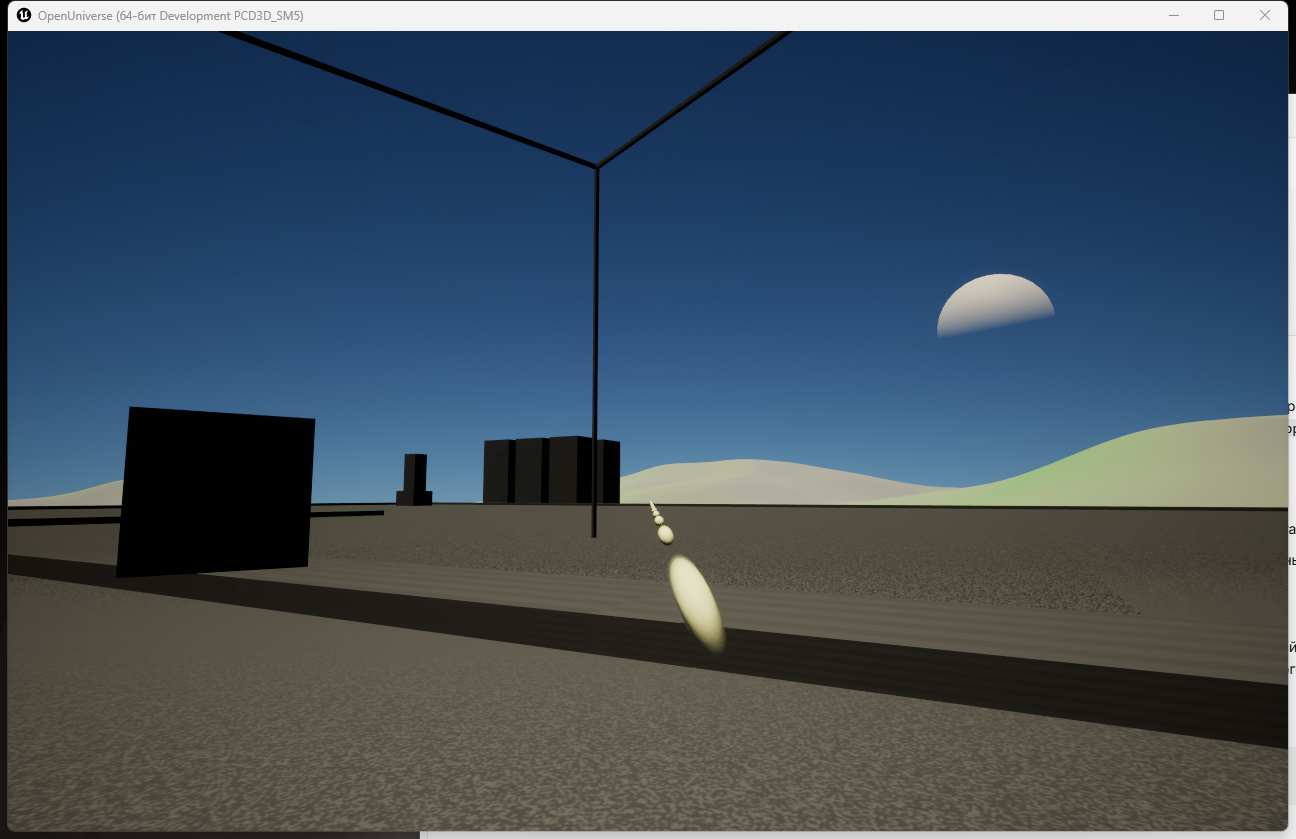
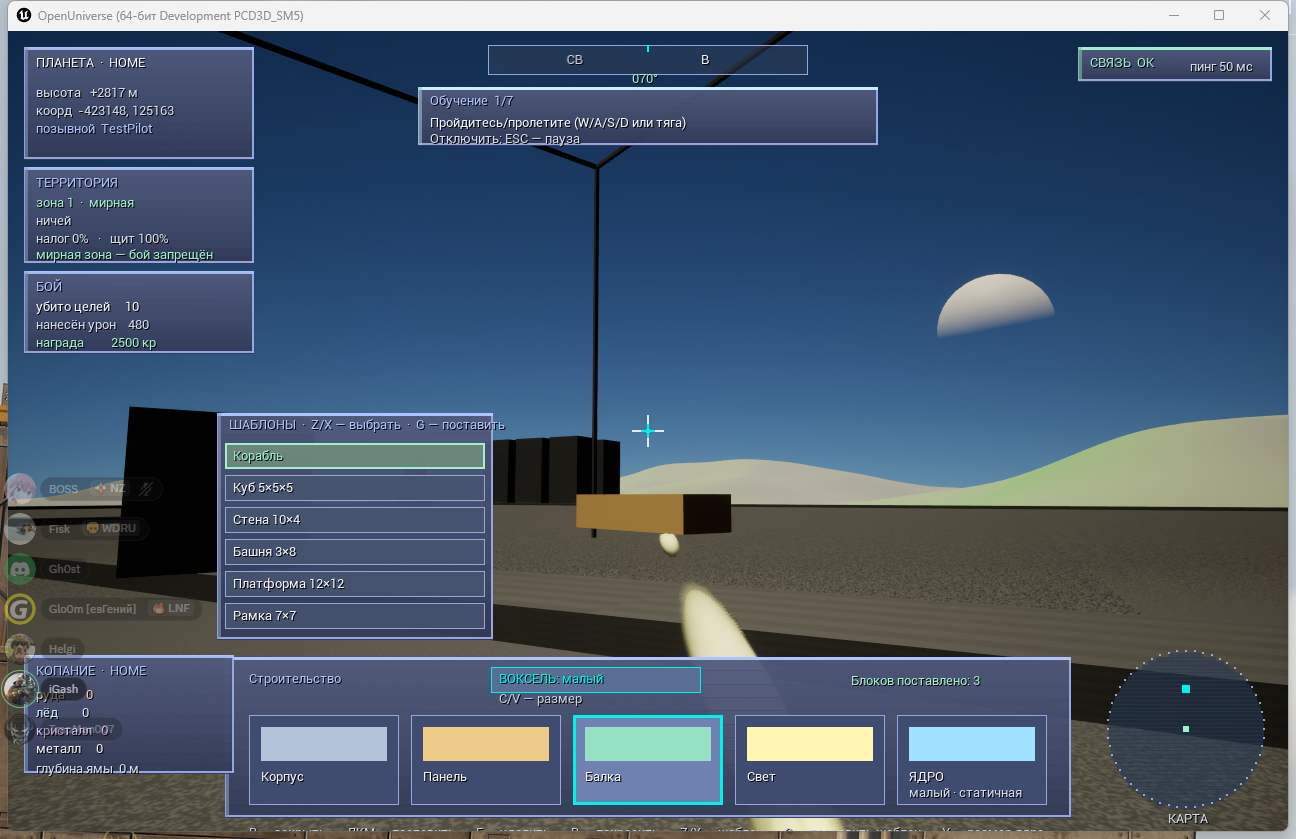
feat(sim): asteroid belt in the home system - deterministic ring of rocks in the sky (generator), drawn on the client; belt capture scenario

diff --git a/data.js b/data.js
@@ -136,7 +136,7 @@ window.PLAN = {
         { "title": "Сверхсвет (удержание Shift): сверхскоростной перелёт между телами", "title_en": "Supercruise (hold Shift): high-speed travel between bodies", "status": "done" },
         { "title": "Гравитация и посадка на соседних телах (луна/планета — с рельефом, гигант/звезда — сфера)", "title_en": "Gravity and landing on neighbouring bodies (moon/planet with terrain, giant/star as spheres)", "status": "done" },
         { "title": "Рельеф на соседних телах (процедурный меш по общей с сервером формуле)", "title_en": "Terrain on neighbouring bodies (procedural mesh from the shared height formula)", "status": "done" },
-        { "title": "Генерация звёздных систем и поясов (генератор есть; обитаемая планета одна)", "title_en": "Star system and belt generation (generator exists; one habitable planet)", "status": "in_progress" },
+        { "title": "Генерация звёздных систем и поясов астероидов (генератор по семени + пояс в домашней системе: кольцо камней в небе, ресурсы)", "title_en": "Star system and asteroid belt generation (deterministic generator + a belt in the home system: a ring of rocks in the sky, resources)", "status": "done" },
         { "title": "Перемещения между системами (межзвёздные)", "title_en": "Travel between systems (interstellar)", "status": "todo" },
         { "title": "Орбитальные станции и шлюзы", "title_en": "Orbital stations and gateways", "status": "todo" },
         { "title": "Опасные зоны: чёрные дыры, радиация", "title_en": "Hazard zones: black holes, radiation", "status": "todo" }

diff --git a/client/Source/OpenUniverse/OUSolarBody.cpp b/client/Source/OpenUniverse/OUSolarBody.cpp
@@ -216,9 +216,15 @@ void AOUSolarBody::BuildBody()
 	}
 
 	// Есть рельеф — строим процедурную поверхность и прячем сферу.
-	if (Amplitude > 0.0 && Kind != EOUSolarKind::Star)
+	if (Amplitude > 0.0 && Kind != EOUSolarKind::Star && Kind != EOUSolarKind::Belt)
 	{
 		BuildTerrain();
+	}
+	else if (Kind == EOUSolarKind::Belt)
+	{
+		// Пояс астероидов — кольцо мелких камней.
+		Mesh->SetVisibility(false);
+		BuildBelt();
 	}
 	else
 	{
@@ -231,5 +237,84 @@ void AOUSolarBody::BuildBody()
 	}
 
 	UE_LOG(LogOUSolar, Log, TEXT("Небесное тело: %s, радиус %.0f см, амплитуда %.0f"),
-		Kind == EOUSolarKind::Star ? TEXT("звезда") : TEXT("планета"), BodyRadiusCm, Amplitude);
+		Kind == EOUSolarKind::Star ? TEXT("звезда")
+			: (Kind == EOUSolarKind::Belt ? TEXT("пояс астероидов") : TEXT("планета")),
+		BodyRadiusCm, Amplitude);
+}
+
+void AOUSolarBody::BuildBelt()
+{
+	// Кольцо камней в плоскости орбиты (горизонт XZ серверных осей → UE).
+	// Рисуем процедурным мешем: несколько «кубиков» случайного размера по кругу.
+	if (!TerrainMesh)
+	{
+		return;
+	}
+	TerrainMesh->ClearAllMeshSections();
+	TerrainMesh->SetVisibility(true);
+	if (TerrainMesh->GetMaterial(0) == nullptr && TerrainMaterial)
+	{
+		TerrainMesh->SetMaterial(0, TerrainMaterial);
+	}
+
+	// Радиус кольца: BeltOrbitUnits (серверные единицы) → см UE.
+	const double RingR = (BeltOrbitUnits > 0.0 ? BeltOrbitUnits : 4000000.0) * OUInterop::ServerUnitToCm;
+	const double Band = FMath::Max(2.0, static_cast<double>(BodyRadiusCm));   // разброс по радиусу
+
+	TArray<FVector> Verts;
+	TArray<int32> Tris;
+	TArray<FVector> Normals;
+	TArray<FVector2D> UVs;
+	TArray<FLinearColor> Colors;
+
+	// Детерминированный псевдослучайный генератор (без внешних зависимостей).
+	uint64 Seed = 0x9E3779B9u;
+	auto NextF = [&Seed]() -> double {
+		Seed = Seed * 6364136223846793005ull + 1442695040888963407ull;
+		return static_cast<double>((Seed >> 11) & 0xFFFFFFFFull) / 4294967296.0;
+	};
+
+	auto AddBox = [&](const FVector& C, double Half) {
+		const int32 Base = Verts.Num();
+		const double H = Half;
+		const FLinearColor Col(0.55f + 0.15f * static_cast<float>(NextF()),
+			0.5f + 0.15f * static_cast<float>(NextF()), 0.45f + 0.15f * static_cast<float>(NextF()));
+		// 8 вершин куба.
+		for (int sx = -1; sx <= 1; sx += 2)
+			for (int sy = -1; sy <= 1; sy += 2)
+				for (int sz = -1; sz <= 1; sz += 2)
+				{
+					Verts.Add(C + FVector(sx * H, sy * H, sz * H));
+					Normals.Add(FVector(sx, sy, sz).GetSafeNormal());
+					UVs.Add(FVector2D(0, 0));
+					Colors.Add(Col);
+				}
+		// 12 треугольников (6 граней) по индексам вершин.
+		const int32 T[12][3] = {
+			{0,1,3},{0,3,2},{4,6,7},{4,7,5},{0,4,5},{0,5,1},
+			{2,3,7},{2,7,6},{0,2,6},{0,6,4},{1,5,7},{1,7,3}
+		};
+		for (auto& t : T)
+		{
+			Tris.Add(Base + t[0]); Tris.Add(Base + t[1]); Tris.Add(Base + t[2]);
+		}
+	};
+
+	const int32 Count = FMath::Clamp(BeltRockCount, 8, 2000);
+	for (int32 i = 0; i < Count; ++i)
+	{
+		const double a = 6.283185307179586 * (static_cast<double>(i) / static_cast<double>(Count))
+			+ NextF() * 0.05;
+		const double r = RingR + (NextF() - 0.5) * Band;
+		// Плоскость орбит тел — горизонтальная (UE XY); Z — толщина пояса.
+		const double z = (NextF() - 0.5) * Band * 0.5;
+		const FVector C(r * FMath::Cos(a), r * FMath::Sin(a), z);
+		const double Half = 4000.0 + NextF() * 16000.0;  // 40–200 м камни
+		AddBox(C, Half);
+	}
+
+	TerrainMesh->CreateMeshSection_LinearColor(0, Verts, Tris, Normals, UVs, Colors,
+		TArray<FProcMeshTangent>(), false);
+	UE_LOG(LogOUSolar, Log, TEXT("Пояс астероидов: камней %d, радиус кольца %.0f см, вершин %d"),
+		Count, RingR, Verts.Num());
 }

diff --git a/client/Source/OpenUniverse/OUShipPawn.cpp b/client/Source/OpenUniverse/OUShipPawn.cpp
@@ -155,6 +155,17 @@ void AOUShipPawn::BeginPlay()
 		// Тангаж вниз (в серверных осях Y — вверх, отрицательный — к поверхности).
 		State.Pitch = -0.9f;
 	}
+	else if (FParse::Param(FCommandLine::Get(), TEXT("OUBeltOrbit")))
+	{
+		// Диагностика: корабль у пояса астероидов (кольцо вокруг центра системы,
+		// радиус 700 000 серверных единиц — за луной). Чуть выше плоскости пояса,
+		// смотрим вниз на кольцо.
+		const FVector BeltRUE = OUInterop::ServerToUE(FVector(700000.f, 0.f, 0.f));
+		const FVector SpawnUE = BeltRUE + FVector(0.f, 0.f, 8000.f);
+		State.Position = OUInterop::UEToServer(SpawnUE);
+		SetActorLocation(SpawnUE);
+		State.Pitch = -0.55f;
+	}
 	else if (FParse::Param(FCommandLine::Get(), TEXT("OUCombatDemo")))
 	{
 		// Диагностика: корабль рядом с боевыми целями (для снимка HUD боя).
@@ -1052,9 +1063,10 @@ void AOUShipPawn::Tick(float DeltaSeconds)
 			}
 			// Какая территория под кораблём (для HUD и клавиши захвата T).
 			Net->UpdateTerritoryAt(State.Position.X, State.Position.Y, State.Position.Z);
-			// Диагностика `-OUMoonOrbit`/`-OUCombatDemo`: не реконсилимся —
-			// держим корабль на месте для снимка.
+			// Диагностика `-OUMoonOrbit`/`-OUBeltOrbit`/`-OUCombatDemo`: не
+			// реконсилимся — держим корабль на месте для снимка.
 			if (!FParse::Param(FCommandLine::Get(), TEXT("OUMoonOrbit")) &&
+				!FParse::Param(FCommandLine::Get(), TEXT("OUBeltOrbit")) &&
 				!FParse::Param(FCommandLine::Get(), TEXT("OUCombatDemo")))
 			{
 				// Реконсиляция: принимаем авторитетное состояние своей сущности

diff --git a/server/crates/sim/src/lib.rs b/server/crates/sim/src/lib.rs
@@ -373,6 +373,19 @@ pub fn home_system() -> StarSystem {
         phase: 0.0,
         resources: 0,
     });
+    // Пояс астероидов — достижим сверхсветом, богат ресурсами. Не тело для
+    // посадки: в физике пропускается (нет рельефа), на клиенте рисуется
+    // кольцом камней. Ставим ЗА луной (560 км) — на 700 км от центра: он вне
+    // домашней планеты (радиус 500 км) и виден с её поверхности.
+    bodies.push(Body {
+        id: 4,
+        kind: BodyKind::AsteroidBelt,
+        pos: Vec3::new(700_000.0, 0.0, 0.0),        // 700 км от центра
+        radius: 30_000.0,                           // 30 км разброс по радиусу
+        orbit: 0.0,
+        phase: 0.0,
+        resources: 5_000,
+    });
     StarSystem {
         id: 0,
         name: system_name(0, HOME_PLANET_SEED),
@@ -512,6 +525,11 @@ impl World {
         self.bodies.push(home_planet());
         for b in home_system().bodies {
             if b.id == home_body_id() {
+                continue;
+            }
+            // Пояс астероидов — не твёрдое тело: на него не садятся, гравитации и
+            // столкновений у него нет (только визуал на клиенте).
+            if matches!(b.kind, BodyKind::AsteroidBelt | BodyKind::BlackHole) {
                 continue;
             }
             if b.radius <= 0.0 {

diff --git a/client/Source/OpenUniverse/OUGameMode.cpp b/client/Source/OpenUniverse/OUGameMode.cpp
@@ -360,15 +360,23 @@ void AOUGameMode::BuildSystemBodies()
 			continue;   // домашняя планета уже построена как воксельный мир
 		}
 		// Позиция серверная (1 ед = 1 м) → см UE (×100), оси сервер→UE.
-		const FVector PosUE = OUInterop::ServerToUE(B.Center);
+		const bool bBelt = (B.Kind == 4);
+		// Пояс — кольцо вокруг центра системы: актёр в начале координат, а радиус
+		// кольца — расстояние от центра до пояса (в серверных единицах).
+		const FVector PosUE = bBelt ? FVector::ZeroVector : OUInterop::ServerToUE(B.Center);
 		AOUSolarBody* Body = World->SpawnActor<AOUSolarBody>(
 			AOUSolarBody::StaticClass(), FTransform(FRotator::ZeroRotator, PosUE));
 		if (!Body)
 		{
 			continue;
 		}
-		Body->Kind = (B.Kind == 0) ? EOUSolarKind::Star : EOUSolarKind::Planet;
+		Body->Kind = (B.Kind == 0) ? EOUSolarKind::Star
+			: (bBelt ? EOUSolarKind::Belt : EOUSolarKind::Planet);
 		Body->BodyRadiusCm = B.Radius * OUInterop::ServerUnitToCm;   // радиус в см
+		// Поясу нужен радиус кольца (в серверных единицах) — из позиции пояса.
+		Body->BeltOrbitUnits = bBelt
+			? static_cast<double>(B.Center.Size())
+			: 0.0;
 		// Рельеф: амплитуда/сид с сервера (общая формула высоты). У звёзд — гладко.
 		Body->Amplitude = B.Amplitude;
 		Body->TerrainSeed = B.Seed;

diff --git a/client/Source/OpenUniverse/OUSolarBody.h b/client/Source/OpenUniverse/OUSolarBody.h
@@ -16,7 +16,8 @@ UENUM(BlueprintType)
 enum class EOUSolarKind : uint8
 {
 	Star UMETA(DisplayName = "Звезда"),
-	Planet UMETA(DisplayName = "Планета")
+	Planet UMETA(DisplayName = "Планета"),
+	Belt UMETA(DisplayName = "Пояс астероидов")
 };
 
 /**
@@ -58,6 +59,14 @@ public:
 	UFUNCTION(BlueprintCallable, CallInEditor, Category = "Open Universe|System")
 	void BuildBody();
 
+	/** Радиус орбиты пояса (серверные единицы) и число камней. */
+	UPROPERTY(EditAnywhere, BlueprintReadWrite, Category = "Open Universe|System")
+	double BeltOrbitUnits = 0.0;
+
+	/** Сколько камней рисовать в поясе (визуал). */
+	UPROPERTY(EditAnywhere, BlueprintReadWrite, Category = "Open Universe|System")
+	int32 BeltRockCount = 900;
+
 protected:
 	virtual void OnConstruction(const FTransform& Transform) override;
 
@@ -71,6 +80,9 @@ protected:
 private:
 	/** Построить процедурную поверхность тела по рельефу. */
 	void BuildTerrain();
+
+	/** Построить пояс астероидов (кольцо камней). */
+	void BuildBelt();
 
 	UPROPERTY(Transient)
 	TObjectPtr<UStaticMesh> SphereMesh = nullptr;

diff --git a/docs/testing-on-another-pc.md b/docs/testing-on-another-pc.md
@@ -7,6 +7,97 @@
 
 ---
 
+## Пошагово с нуля (чек-лист)
+
+### Шаг 1. Установить Git
+```powershell
+winget install --id Git.Git -e
+```
+Проверка (в **новом** окне терминала):
+```powershell
+git --version
+```
+Если `winget` незнаком — скачайте Git с https://git-scm.com/download/win.
+
+### Шаг 2. Установить Rust
+```powershell
+winget install --id Rustlang.Rustup -e
+```
+Проверка (в новом окне):
+```powershell
+cargo --version
+rustc --version
+```
+Без Rust тесты ядра не запустятся.
+
+### Шаг 3. Установить Visual Studio 2022 с C++
+Нужен для C++-тестов провода и рельефа (компилятор `cl.exe`).
+```powershell
+winget install --id Microsoft.VisualStudio.2022.Community -e
+```
+После установки откройте **Visual Studio Installer → Изменить (Modify)** и
+включите рабочую нагрузку **«Разработка классических приложений на C++»**
+(*Desktop development with C++*), затем нажмите «Изменить».
+
+Проверка:
+```powershell
+& "${env:ProgramFiles(x86)}\Microsoft Visual Studio\Installer\vswhere.exe" -latest -requires Microsoft.VisualStudio.Component.VC.Tools.x86.x64 -property installationPath
+```
+Должен вывестись путь; пусто — компонент C++ не отмечен.
+
+> Без VS с C++ шаги `test-client` и `test-terrain` будут **пропущены**.
+
+### Шаг 4. Получить код проекта
+```powershell
+cd C:\            # или любой рабочий диск
+git clone https://github.com/andreyshpak2016-lgtm/open-universe.git
+cd open-universe
+```
+
+### Шаг 5. Прогнать быстрые тесты (без Unreal Engine)
+```powershell
+powershell -ExecutionPolicy Bypass -File tools/test-all.ps1 -SkipUE
+```
+Ожидаемый итог: `cargo test`, `test-client`, `test-terrain` — **OK**;
+`test-ue` и `test-shipping` — пропущены (движка нет).
+
+### Шаг 6. (Только для UE-тестов) Установить Unreal Engine 5.5
+- Установите **Epic Games Launcher**, добавьте **Unreal Engine 5.5**.
+- Путь обычно `C:\Program Files\Epic Games\UE_5.5`.
+- Установите **.NET Framework SDK** (нужен UnrealBuildTool):
+```powershell
+winget install --id Microsoft.DotNet.Framework.DeveloperPack_4 -e
+```
+
+### Шаг 7. Собрать UE-модуль клиента
+```powershell
+powershell -ExecutionPolicy Bypass -File tools/build-client.ps1 -Build
+```
+Если движок не в `D:\UE_5.5`, укажите путь:
+```powershell
+powershell -File tools/build-client.ps1 -Build -EngineRoot "C:\Program Files\Epic Games\UE_5.5"
+```
+
+### Шаг 8. Прогнать UE-тесты
+```powershell
+powershell -ExecutionPolicy Bypass -File tools/test-ue.ps1
+```
+Если движок нестандартный — добавьте `-EngineRoot`.
+
+### Шаг 9. Полный прогон всего
+```powershell
+powershell -ExecutionPolicy Bypass -File tools/test-all.ps1
+```
+Сводка покажет все проверки сразу.
+
+### Шаг 10. (Необязательно) Упаковать игру и проверить Shipping
+```powershell
+powershell -File tools/package-game.ps1     # сборка standalone (долго)
+powershell -File tools/test-shipping.ps1    # запуск упакованной сборки
+```
+
+---
+
 ## 0. Быстрый путь (если всё уже стоит)
 
 ```powershell

diff --git a/plan.md b/plan.md
@@ -149,7 +149,7 @@
 - [x] Сверхсвет (удержание Shift): сверхскоростной перелёт между телами системы
 - [x] Гравитация и посадка на соседних телах (луна, планета — с рельефом; гигант/звезда — сфера)
 - [x] Рельеф на соседних телах (процедурный меш по общей с сервером формуле высоты)
-- [~] Генерация звёздных систем и поясов астероидов — **генератор есть; обитаемая планета одна**
+- [x] Генерация звёздных систем и поясов астероидов (генератор по семени + пояс в домашней системе: кольцо камней в небе, ресурсы)
 - [ ] Перемещения между системами (межзвёздные)
 - [ ] Орбитальные станции и шлюзы
 - [ ] Опасные зоны: чёрные дыры, радиация
